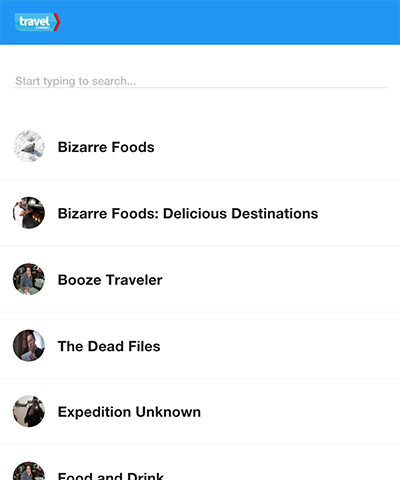
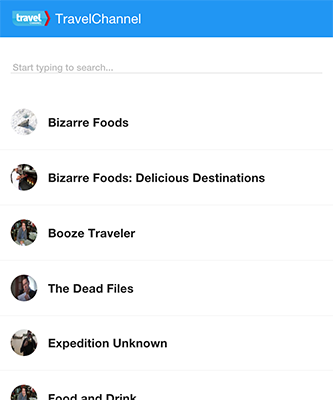
new topbar

diff --git a/chrome/app/assets/javascripts/build/controllers.js b/chrome/app/assets/javascripts/build/controllers.js
@@ -2,10 +2,12 @@
 (function() {
   var app;
 
-  app = angular.module("travelChannel.controllers", ["travelChannel.services"]);
+  app = angular.module("travelChannel.controllers", []);
 
   app.controller("appController", [
-    "$scope", function($scope) {
+    "$scope", "NavbarFactory", function($scope, NavbarFactory) {
+      $scope.Navbar = new NavbarFactory;
+      $scope.Navbar.addTitle("TravelChannel");
       return $scope.search = {
         query: ""
       };
@@ -14,10 +16,11 @@
 
   app.controller("ProgramsController", [
     "$scope", "$location", "TravelChannel", function($scope, $location, TravelChannel) {
+      $scope.Navbar.reset();
+      $scope.Navbar.addTitle("TravelChannel");
       $scope.loading = true;
       $scope.programs = [];
       TravelChannel.programs().then(function(programs) {
-        console.debug(programs);
         $scope.loading = false;
         return $scope.programs = programs;
       });
@@ -31,8 +34,8 @@
     "$scope", "$location", "$routeParams", "TravelChannel", "NavbarFactory", function($scope, $location, $routeParams, TravelChannel, NavbarFactory) {
       var name, url;
       name = $routeParams.name;
-      $scope.Navbar = new NavbarFactory;
-      $scope.Navbar.addLink("/programs", "Programs");
+      $scope.Navbar.reset();
+      $scope.Navbar.addLink("/programs");
       $scope.Navbar.addTitle(name);
       url = $routeParams.url;
       $scope.loading = true;

diff --git a/chrome/app/assets/javascripts/build/factories.js b/chrome/app/assets/javascripts/build/factories.js
@@ -5,7 +5,7 @@
   app = angular.module("travelChannel.factories", []);
 
   app.factory("NavbarFactory", [
-    function() {
+    "$location", function($location) {
       var Model;
       return Model = (function() {
         function Model() {
@@ -23,8 +23,17 @@
           return this.list.push({
             type: "link",
             url: url,
-            label: label
+            label: label,
+            go: (function(_this) {
+              return function() {
+                return $location.path(url);
+              };
+            })(this)
           });
+        };
+
+        Model.prototype.reset = function() {
+          return this.list = [];
         };
 
         return Model;

diff --git a/chrome/app/assets/stylesheets/app.css b/chrome/app/assets/stylesheets/app.css
@@ -12,4 +12,6 @@ img.logo { height: 32px; padding-right: 5px; }
 #programs .md-subheader.md-padding { padding-bottom: 0; }
 
 #programs md-list-item:not(:last-child) { border-bottom: 1px solid rgba(211,211,211,0.25); padding-top: 8px !important; padding-bottom: 8px !important; }
-#episodes md-list-item:not(:last-child) { border-bottom: 1px solid rgba(211,211,211,0.25); padding-bottom: 24px !important; }
+#episodes md-list-item:not(:last-child) { border-bottom: 1px solid rgba(211,211,211,0.25); padding-bottom: 8px !important; }
+
+#episodes md-list-item h2 { margin: 0; }

diff --git a/chrome/app/views/app.html b/chrome/app/views/app.html
@@ -32,6 +32,13 @@
           <span ng-if="views.programs">
             Travel Channel
           </span>
+          <span ng-repeat="item in Navbar.list">
+            <span ng-if="item.type == 'title'">{{item.title}}</span>
+            <span ng-if="item.type == 'link'">
+              <ng-md-icon icon="arrow_back" style="fill: white" ng-click="item.go()" class="pointer"></ng-md-icon> 
+              {{item.label}}
+            </span>            
+          </span>
         </div>
       </md-toolbar>
     </md-content>  

diff --git a/chrome/app/assets/javascripts/build/directives.js b/chrome/app/assets/javascripts/build/directives.js
@@ -35,7 +35,9 @@
         controller: [
           "$scope", "TravelChannel", function($scope, TravelChannel) {
             $scope.videos = [];
+            $scope.loading = true;
             return TravelChannel.videos($scope.episode.smilUrl).then(function(data) {
+              $scope.loading = false;
               return $scope.videos = data;
             });
           }

diff --git a/chrome/app/views/videos.html b/chrome/app/views/videos.html
@@ -1,6 +1,7 @@
 <md-content>
   <p>Videos</p>
-    <span ng-repeat="video in videos">
+    <md-progress-circular ng-if="loading" class="md-hue-2" md-mode="indeterminate" md-diameter="24px"></md-progress-circular>
+    <span ng-if="!loading" ng-repeat="video in videos">
       <a href="{{video.src}}.mp4">
       {{video.width}}x{{video.height}}      
       </a>

diff --git a/chrome/app/views/programs.html b/chrome/app/views/programs.html
@@ -1,7 +1,7 @@
 <ng-include src="'app/views/loader.html'"></ng-include>
 
 <div ng-if="!loading" id="programs">
-  <md-subheader class="md-padding">
+  <md-subheader class="md-padding">    
     <md-input-container>
       <input type="text" placeholder="Start typing to search..." ng-model="search.query" />
     </md-input-container>

diff --git a/chrome/app/views/episodes.html b/chrome/app/views/episodes.html
@@ -1,7 +1,7 @@
 <ng-include src="'app/views/loader.html'"></ng-include>
 
 <div ng-if="!loading" id="episodes">
-  <navbar model="Navbar"></navbar>
+  <md-subheader>{{episodes.length}} episodes</md-subheader>
   
   <md-list>
     <md-list-item ng-repeat="episode in episodes" class="md-3-line">
